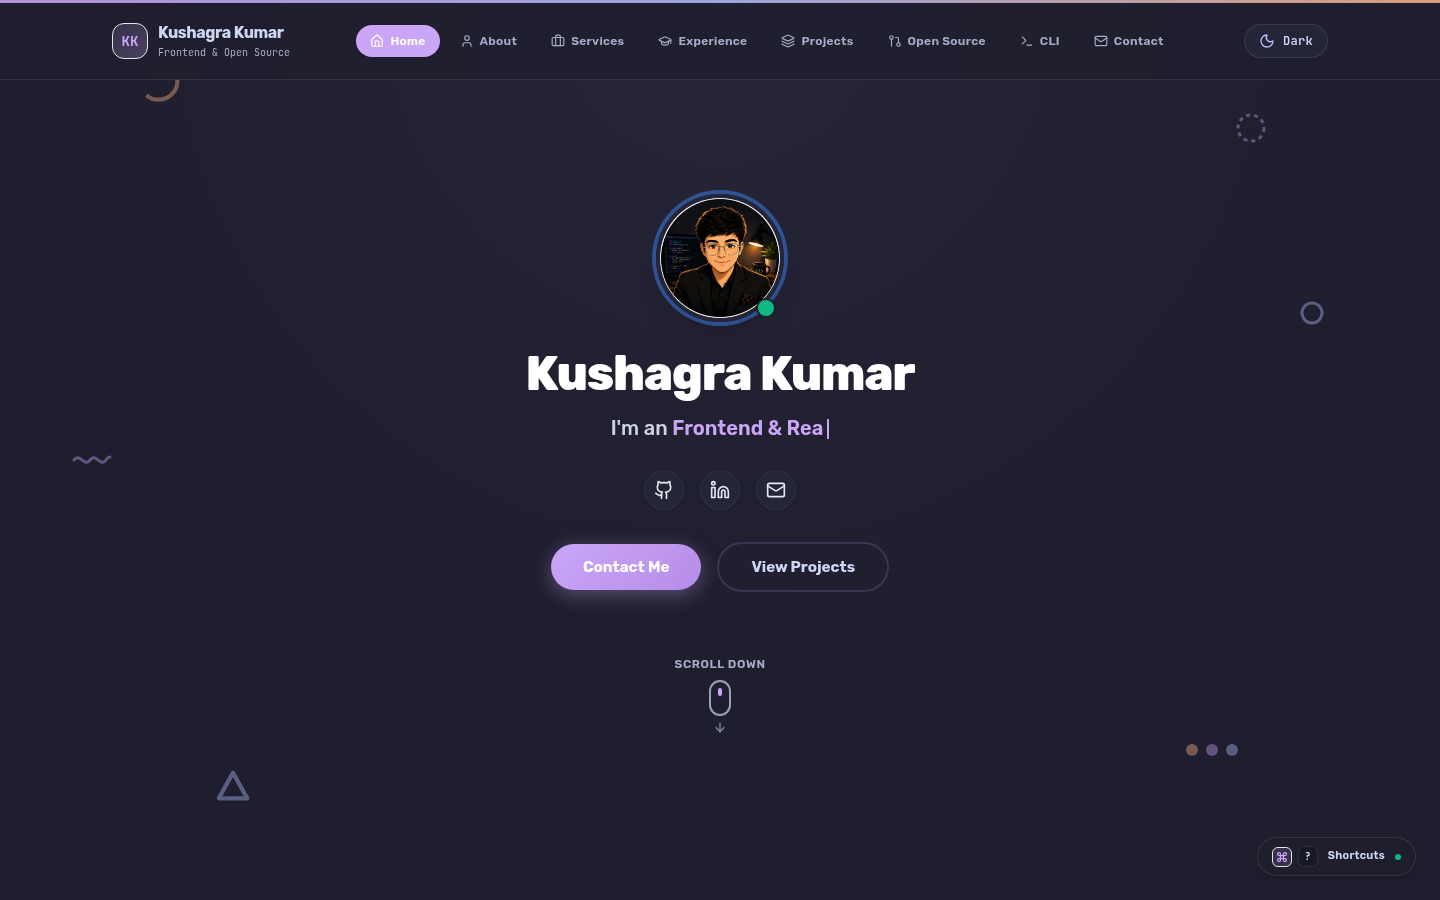
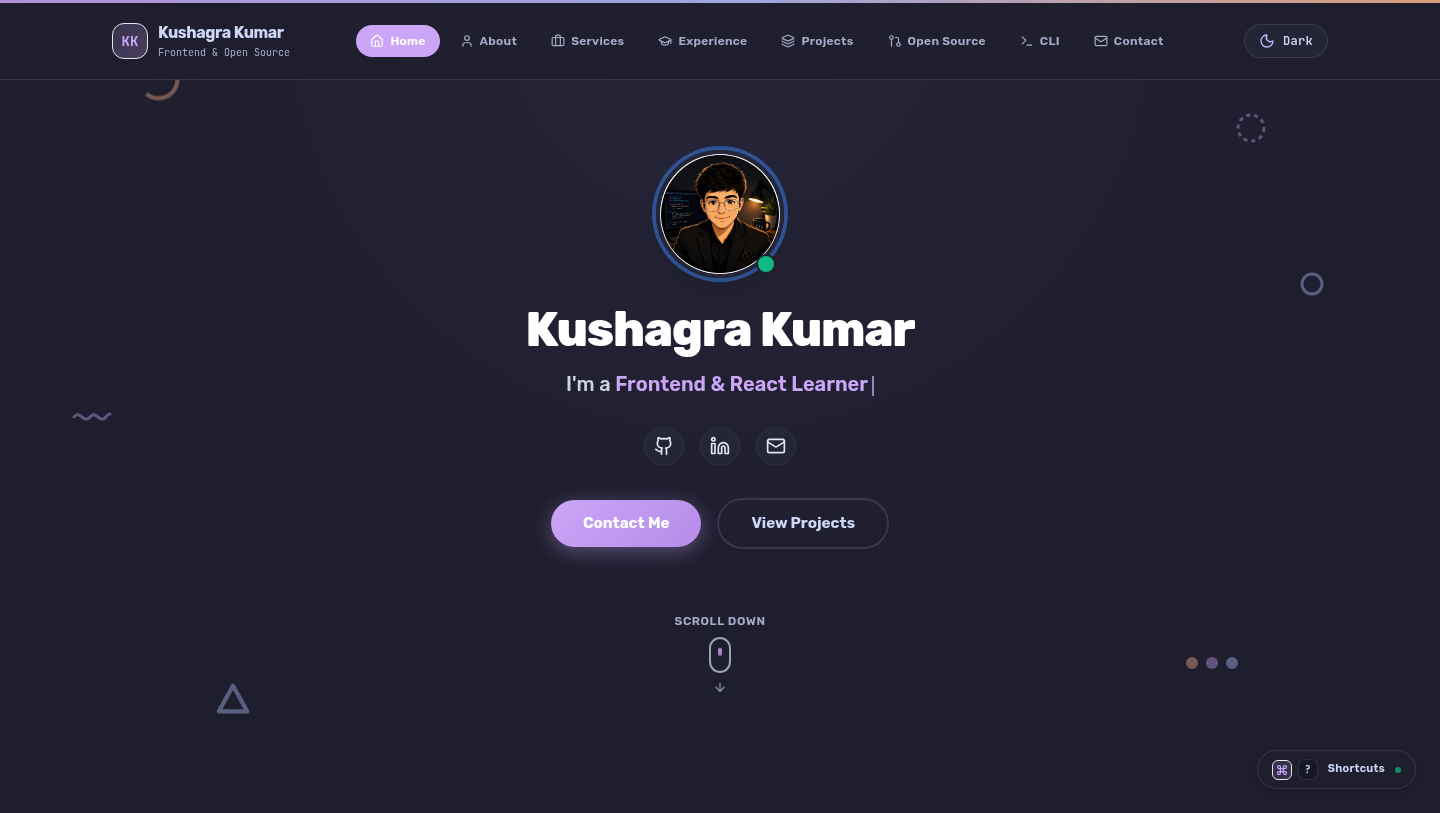
docs(readme): update portfolio screenshots gallery and fix subtitle typewriter initialization

diff --git a/src/components/Hero.tsx b/src/components/Hero.tsx
@@ -15,31 +15,40 @@ const phrases = [
 
 export const Hero: React.FC = () => {
   const [phraseIndex, setPhraseIndex] = useState(0);
-  const [currentText, setCurrentText] = useState('');
+  const [currentText, setCurrentText] = useState(phrases[0]);
   const [isDeleting, setIsDeleting] = useState(false);
   const typingSpeed = 110;
 
   useEffect(() => {
-    const handleType = () => {
-      const fullPhrase = phrases[phraseIndex];
+    let timer: ReturnType<typeof setTimeout>;
 
-      if (!isDeleting) {
-        setCurrentText(fullPhrase.substring(0, currentText.length + 1));
-        if (currentText === fullPhrase) {
-          setTimeout(() => setIsDeleting(true), 2000);
+    if (!isDeleting && currentText === phrases[phraseIndex]) {
+      // Solidly display the complete phrase before initiating deletion
+      timer = setTimeout(() => {
+        setIsDeleting(true);
+      }, 2400);
+    } else if (isDeleting && currentText === '') {
+      // Brief pause before transitioning to next phrase and typing forward
+      timer = setTimeout(() => {
+        setIsDeleting(false);
+        setPhraseIndex((prev) => (prev + 1) % phrases.length);
+      }, 300);
+    } else {
+      timer = setTimeout(() => {
+        const fullPhrase = phrases[phraseIndex];
+        if (!isDeleting) {
+          setCurrentText(fullPhrase.substring(0, currentText.length + 1));
+        } else {
+          setCurrentText(fullPhrase.substring(0, currentText.length - 1));
         }
-      } else {
-        setCurrentText(fullPhrase.substring(0, currentText.length - 1));
-        if (currentText === '') {
-          setIsDeleting(false);
-          setPhraseIndex((prev) => (prev + 1) % phrases.length);
-        }
-      }
-    };
+      }, isDeleting ? 45 : typingSpeed);
+    }
 
-    const timer = setTimeout(handleType, isDeleting ? 50 : typingSpeed);
     return () => clearTimeout(timer);
   }, [currentText, isDeleting, phraseIndex, typingSpeed]);
+
+  const isVowel = /^[aeiou]/i.test(currentText.trim());
+  const article = isVowel ? 'an ' : 'a ';
 
   return (
     <section
@@ -85,7 +94,7 @@ export const Hero: React.FC = () => {
         {/* Dynamic Subtitle */}
         <div className="h-9 flex items-center justify-center mb-6">
           <p className="text-lg sm:text-xl font-medium text-slate-600 dark:text-slate-300">
-            <span>I'm an </span>
+            <span>I'm {article}</span>
             <span className="text-[var(--accent-primary)] font-semibold">{currentText}</span>
             <span className="inline-block w-0.5 h-5 bg-[var(--accent-primary)] ml-1 animate-pulse align-middle" />
           </p>

diff --git a/README.md b/README.md
@@ -2,11 +2,33 @@
 
 A modern, fast, and accessible developer portfolio built with React 19, TypeScript, and Tailwind CSS. Showcases frontend engineering, Linux systems tooling, and real upstream open-source contributions landed with AI pair-programming.
 
-![Portfolio Dark Mode](screenshots/portfolio-dark.png)
-*Catppuccin Mocha (Dark Mode)*
+## Interface & Showcase Gallery
 
-![Portfolio Light Mode](screenshots/portfolio-light.png)
-*Catppuccin Latte (Light Mode)*
+### Workstation Hero Canvas
+
+| Catppuccin Mocha (Dark Mode) | Catppuccin Latte (Light Mode) |
+| :---: | :---: |
+| ![Portfolio Dark Mode](screenshots/portfolio-dark.png) | ![Portfolio Light Mode](screenshots/portfolio-light.png) |
+
+### Flagship Projects & Systems Automation
+
+![Flagship Projects](screenshots/projects-dark.png)
+*Interactive project cards with verified live telemetry, star badges, and copy commands.*
+
+### Upstream Open Source & Triage Dispatches
+
+![Upstream Contributions](screenshots/upstream-dark.png)
+*Upstream pull requests and kernel/hardware investigations with structured diagnostic breakdowns.*
+
+### Workstation CLI & System Telemetry
+
+![System Telemetry & Terminal](screenshots/telemetry-dark.png)
+*Procfs hardware telemetry and interactive terminal emulator powered by `kkfetch`.*
+
+### Keyboard Command Palette
+
+![Keyboard Shortcuts](screenshots/shortcuts-dark.png)
+*Instant keyboard navigation (`?` or `Cmd + K`) for seamless power-user ergonomics.*
 
 ---
 
@@ -51,8 +73,12 @@ portfolio/
 ├── public/
 │   └── favicon.svg            # Minimal geometric SVG favicon
 ├── screenshots/
-│   ├── portfolio-dark.png     # Dark mode application preview
-│   └── portfolio-light.png    # Light mode application preview
+│   ├── portfolio-dark.png     # Dark mode workstation preview
+│   ├── portfolio-light.png    # Light mode workstation preview
+│   ├── projects-dark.png      # Flagship codebases and project cards
+│   ├── upstream-dark.png      # Upstream contributions and triage dispatches
+│   ├── telemetry-dark.png     # System telemetry and interactive CLI
+│   └── shortcuts-dark.png     # Keyboard navigation command palette
 ├── src/
 │   ├── assets/                # Static media and avatar images
 │   ├── components/            # Focused, accessible UI components
